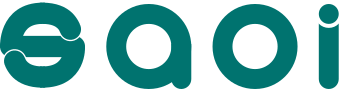
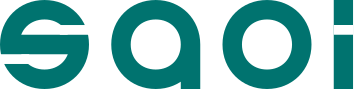
feat: redraw the wordmark and face, add the Saoirse wordmark

diff --git a/src/saoirse/SaoiWordmark.tsx b/src/saoirse/SaoiWordmark.tsx
@@ -2,12 +2,11 @@ import { useId, type ReactNode } from 'react'
 import { cn } from '@/lib/utils'
 
 /**
- * The Saoi wordmark, from `brand/saoi-name.svg` (viewBox 258 x 67).
+ * The Saoi wordmark, from `brand/saoi-name.svg` (viewBox 0 0 254 64).
  *
- * Drawn outlines, not type, so it renders identically everywhere. It takes its colour from
+ * Stroked paths, not type, so it renders identically everywhere. It takes its colour from
  * `currentColor`: set a `text-*` class. Sized by height, the width follows the artwork.
- * The two masks cut the transparent gaps in the `s` and the `i`; their ids are per instance
- * because several wordmarks can be on one page.
+ * One mask cuts the gaps; its id is per instance because several wordmarks can be on one page.
  *
  * Do not put it inside a shadcn `Button`: Button forces `size-4` on descendant svgs.
  */
@@ -19,12 +18,10 @@ export function SaoiWordmark({
   /** A `view-transition-name`, where this is the same object as one on another page. */
   readonly transitionName?: string
 }): ReactNode {
-  const id = useId().replace(/:/g, '')
-  const sGap = `saoi-s-gap-${id}`
-  const iGap = `saoi-i-gap-${id}`
+  const cut = `saoi-cut-${useId().replace(/:/g, '')}`
   return (
     <svg
-      viewBox="0 0 258 67"
+      viewBox="0 0 254 64"
       fill="none"
       role="img"
       aria-label="Saoi"
@@ -32,53 +29,19 @@ export function SaoiWordmark({
       {...(transitionName === undefined ? {} : { style: { viewTransitionName: transitionName } })}
     >
       <defs>
-        <mask id={sGap} maskUnits="userSpaceOnUse" x="0" y="0" width="64" height="67">
-          <rect width="64" height="67" fill="#fff" />
-          <path
-            d="M18.8092 41.5C16.324 37.1954 10.8196 35.7205 6.51501 38.2058C2.21038 40.6911 0.735505 46.1954 3.22079 50.5L11.015 46L18.8092 41.5ZM11.015 46L3.22079 50.5C2.40237 49.0825 4.89315 55.1029 9.07162 59.0809C13.9324 63.7085 21.298 67 32.0151 67V58V49C25.2321 49 22.5307 47.0415 21.4829 46.0441C19.7529 44.3971 20.4937 44.4175 18.8092 41.5L11.015 46Z"
-            fill="#000"
-          />
-          <path
-            d="M45.2208 26.5C47.7061 30.8046 53.2104 32.2795 57.515 29.7942C61.8196 27.3089 63.2945 21.8046 60.8092 17.5L53.015 22L45.2208 26.5ZM53.015 22L60.8092 17.5C61.6277 18.9175 59.1369 12.8971 54.9584 8.91908C50.0976 4.29152 42.732 0.999999 32.0150 0.999998L32.015 10L32.015 19C38.798 19 41.4994 20.9585 42.5471 21.9559C44.2771 23.6029 43.5363 23.5825 45.2208 26.5L53.015 22Z"
-            fill="#000"
-          />
-        </mask>
-        <mask id={iGap} maskUnits="userSpaceOnUse" x="237" y="0" width="21" height="67">
-          <rect x="237" width="21" height="67" fill="#fff" />
-          <circle cx="247.5" cy="10.5" r="10.5" fill="#000" />
+        <mask id={cut} maskUnits="userSpaceOnUse" x="0" y="0" width="254" height="64">
+          <rect width="254" height="64" fill="#fff" />
+          <path d="M240 21.5L254 21.5" stroke="#000" strokeWidth="7" />
+          <path d="M43 21.5L64 21.5" stroke="#000" strokeWidth="7" />
+          <path d="M21 42.5L2.73771e-07 42.5" stroke="#000" strokeWidth="7" />
         </mask>
       </defs>
-      <g mask={`url(#${sGap})`}>
-        <path d="M8.01498 35H56.015" stroke="currentColor" strokeWidth="16" strokeLinecap="round" />
-        <path d="M56.015 35C56.015 35 57.515 58 32.015 58" stroke="currentColor" strokeWidth="16" />
-        <path
-          d="M32.0254 10C6.57114 9.99999 8.01501 35.5 8.01501 35.5"
-          stroke="currentColor"
-          strokeWidth="16"
-        />
+      <g stroke="currentColor" strokeWidth="14" mask={`url(#${cut})`}>
+        <path d="M247 0V64" />
+        <path d="M167 32C167 17.6406 177.641 7 192 7C206.359 7 217 17.6406 217 32C217 46.3594 206.359 57 192 57C177.641 57 167 46.3594 167 32Z" />
+        <path d="M137 32C137 17.6406 126.359 7 112 7C97.6406 7 87 17.6406 87 32C87 46.3594 97.6406 57 112 57C126.359 57 137 46.3594 137 32ZM137 32V64" />
+        <path d="M7 32C7 17.6406 17.6406 7 32 7C46.3594 7 57 17.6406 57 32M7 32C7 46.3594 17.6406 57 32 57C46.3594 57 57 46.3594 57 32M7 32H57" />
       </g>
-      <path
-        d="M17.9432 42C15.7341 38.1737 10.8414 36.8627 7.01501 39.0718C3.18867 41.2809 1.87767 46.1737 4.08681 50L11.015 46L17.9432 42ZM11.015 46L4.08681 50C3.40744 48.8233 5.71869 54.5082 9.76114 58.3567C14.4101 62.7825 21.5166 66 32.0151 66V58V50C25.0135 50 22.053 47.9675 20.7934 46.7683C18.9274 44.9918 19.4886 44.6767 17.9432 42L11.015 46Z"
-        fill="currentColor"
-      />
-      <path
-        d="M46.0868 26C48.2959 29.8263 53.1887 31.1373 57.015 28.9282C60.8414 26.7191 62.1524 21.8263 59.9432 18L53.015 22L46.0868 26ZM53.015 22L59.9432 18C60.6226 19.1767 58.3113 13.4918 54.2689 9.64335C49.6199 5.21746 42.5135 2 32.015 2L32.015 10L32.015 18C39.0165 18 41.9771 20.0325 43.2366 21.2317C45.1027 23.0082 44.5414 23.3233 46.0868 26L53.015 22Z"
-        fill="currentColor"
-      />
-      <rect x="30" y="50" width="4" height="16" fill="currentColor" />
-      <rect x="30" y="2" width="4" height="16" fill="currentColor" />
-      <circle cx="112" cy="35" r="24.5" stroke="currentColor" strokeWidth="15" />
-      <path
-        d="M144 59.5C144 63.6421 140.642 67 136.5 67C132.358 67 129 63.6421 129 59.5V33H144V59.5Z"
-        fill="currentColor"
-      />
-      <circle cx="192" cy="35" r="24.5" stroke="currentColor" strokeWidth="15" />
-      <path
-        d="M255 59.5C255 63.6421 251.642 67 247.5 67C243.358 67 240 63.6421 240 59.5V10.5C240 6.35786 243.358 3 247.5 3C251.642 3 255 6.35786 255 10.5V59.5Z"
-        fill="currentColor"
-        mask={`url(#${iGap})`}
-      />
-      <circle cx="247.5" cy="10.5" r="7.5" fill="currentColor" />
     </svg>
   )
 }

diff --git a/src/saoirse/SaoirseWordmark.tsx b/src/saoirse/SaoirseWordmark.tsx
@@ -1,0 +1,54 @@
+import { useId, type ReactNode } from 'react'
+import { cn } from '@/lib/utils'
+
+/**
+ * The Saoirse wordmark: the assistant's name, from `brand/saoirse-name.svg` (viewBox 0 0 480 64).
+ *
+ * Stroked paths, not type, so it renders identically everywhere. It takes its colour from
+ * `currentColor`: set a `text-*` class. Sized by height, the width follows the artwork.
+ * One mask cuts the gaps; its id is per instance because several wordmarks can be on one page.
+ *
+ * Do not put it inside a shadcn `Button`: Button forces `size-4` on descendant svgs.
+ */
+export function SaoirseWordmark({
+  className,
+  transitionName,
+}: {
+  readonly className?: string
+  /** A `view-transition-name`, where this is the same object as one on another page. */
+  readonly transitionName?: string
+}): ReactNode {
+  const cut = `saoi-cut-${useId().replace(/:/g, '')}`
+  return (
+    <svg
+      viewBox="0 0 480 64"
+      fill="none"
+      role="img"
+      aria-label="Saoirse"
+      className={cn('text-saoi-primary h-7 w-auto', className)}
+      {...(transitionName === undefined ? {} : { style: { viewTransitionName: transitionName } })}
+    >
+      <defs>
+        <mask id={cut} maskUnits="userSpaceOnUse" x="0" y="0" width="480" height="64">
+          <rect width="480" height="64" fill="#fff" />
+          <path d="M480 42.5L459 42.5" stroke="#000" strokeWidth="7" />
+          <path d="M379 21.5L400 21.5" stroke="#000" strokeWidth="7" />
+          <path d="M357 42.5L336 42.5" stroke="#000" strokeWidth="7" />
+          <path d="M304 21.5L320 21.5" stroke="#000" strokeWidth="7" />
+          <path d="M240 21.5L254 21.5" stroke="#000" strokeWidth="7" />
+          <path d="M43 21.5L64 21.5" stroke="#000" strokeWidth="7" />
+          <path d="M21 42.5L2.73771e-07 42.5" stroke="#000" strokeWidth="7" />
+        </mask>
+      </defs>
+      <g stroke="currentColor" strokeWidth="14" mask={`url(#${cut})`}>
+        <path d="M423 32C423 17.6406 433.641 7 448 7C462.359 7 473 17.6406 473 32M423 32C423 46.3594 433.641 57 448 57C462.359 57 473 46.3594 473 32M423 32H473" />
+        <path d="M343 32C343 17.6406 353.641 7 368 7C382.359 7 393 17.6406 393 32M343 32C343 46.3594 353.641 57 368 57C382.359 57 393 46.3594 393 32M343 32H393" />
+        <path d="M313 25C313 9 301 7.00002 296.5 7.00002C292 7.00002 278 8.99996 278 25M278 25V64.0001M278 25V0" />
+        <path d="M247 0V64" />
+        <path d="M167 32C167 17.6406 177.641 7 192 7C206.359 7 217 17.6406 217 32C217 46.3594 206.359 57 192 57C177.641 57 167 46.3594 167 32Z" />
+        <path d="M137 32C137 17.6406 126.359 7 112 7C97.6406 7 87 17.6406 87 32C87 46.3594 97.6406 57 112 57C126.359 57 137 46.3594 137 32ZM137 32V64" />
+        <path d="M7 32C7 17.6406 17.6406 7 32 7C46.3594 7 57 17.6406 57 32M7 32C7 46.3594 17.6406 57 32 57C46.3594 57 57 46.3594 57 32M7 32H57" />
+      </g>
+    </svg>
+  )
+}

diff --git a/src/saoirse/SaoirseMark.tsx b/src/saoirse/SaoirseMark.tsx
@@ -4,9 +4,9 @@ import { cn } from '@/lib/utils'
 /**
  * Saoirse's icon, from `brand/saoirse-face.svg`.
  *
- * A lowercase `b` — a stem and a ring for its bowl — with two eyes inside the bowl. It is the
- * same letter that opens the wordmark, which is the point: the thing in the middle of the
- * opening screen and the first letter of the name are one object.
+ * A stem with a flat-topped end and a ring for its bowl, with two square eyes inside the bowl:
+ * the first letter of the name, which is the point: the thing in the middle of the opening
+ * screen and the first letter of the name are one object.
  *
  * Drawn here rather than imported as a file so it can take a colour. The artwork is a single
  * colour; `currentColor` is what lets the same component sit in the brand teal, in a muted
@@ -44,13 +44,14 @@ export function SaoirseMark({
         ? { role: 'img' as const, 'aria-label': title }
         : { 'aria-hidden': true as const })}
     >
-      <circle cx="32" cy="40" r="24.5" fill="none" stroke="currentColor" strokeWidth="15" />
-      <circle cx="26" cy="37" r="3" fill="currentColor" />
-      <circle cx="37" cy="37" r="3" fill="currentColor" />
-      <path
-        d="M0 7.5C0 3.35786 3.35786 0 7.5 0C11.6421 0 15 3.35786 15 7.5V40H0V7.5Z"
-        fill="currentColor"
-      />
+      <g stroke="currentColor">
+        <path
+          d="M7 40C7 26.1929 18.1929 15 32 15C45.8071 15 57 26.1929 57 40C57 53.8071 45.8071 65 32 65C18.1929 65 7 53.8071 7 40ZM7 40V0"
+          strokeWidth="14"
+        />
+        <path d="M22 37H28" strokeWidth="6" />
+        <path d="M37 37H43" strokeWidth="6" />
+      </g>
     </svg>
   )
 }

diff --git a/src/surfaces/SaoirseScreen.tsx b/src/surfaces/SaoirseScreen.tsx
@@ -2,7 +2,7 @@ import { useEffect, useState, type ReactNode } from 'react'
 import { useDocumentTitle } from '@/lib/useDocumentTitle'
 import { Link, useSearchParams } from 'react-router-dom'
 import { SaoirseChat } from '@/saoirse/SaoirseChat'
-import { SaoiWordmark } from '@/saoirse/SaoiWordmark'
+import { SaoirseWordmark } from '@/saoirse/SaoirseWordmark'
 import { ConversationMenu } from '@/saoirse/ConversationMenu'
 import { IdentityBadge } from '@/saoirse/IdentityBadge'
 import { rememberPresenterKey } from '@/lib/session'
@@ -119,7 +119,7 @@ export function SaoirseScreen(): ReactNode {
             aria-label="Saoirse home"
             className="hover:bg-accent focus-visible:ring-ring justify-self-center rounded-md px-3 py-1.5 transition-colors focus-visible:ring-2 focus-visible:outline-none"
           >
-            <SaoiWordmark className="h-9" transitionName="saoi-wordmark" />
+            <SaoirseWordmark className="h-6" transitionName="saoi-wordmark" />
           </Link>
           {/*
             The avatar, once there is one. It renders nothing while anonymous, which is also

diff --git a/supabase/templates/sign-in-link.html b/supabase/templates/sign-in-link.html
@@ -28,7 +28,7 @@
           <p style="margin: 0 0 18px">
             <img
               src="https://app.saoi.ie/saoi-wordmark.png"
-              width="116"
+              width="119"
               height="30"
               alt="Saoirse"
               style="display: block; border: 0; outline: none; text-decoration: none"
